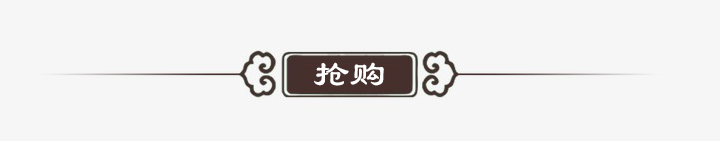
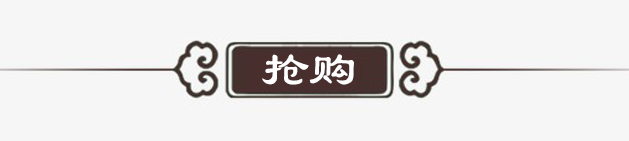
修改

Changed region(s): [[0.0, 0.2837, 1.0, 0.7092]]

diff --git a/www/css/style.css b/www/css/style.css
@@ -140,19 +140,19 @@ ion-tabs.tabs-color-active-positive .tab-item.tab-item-active, ion-tabs.tabs-col
    margin-top:0;
   padding-top: 0;}
 .home .search_input{width: 95%;position: absolute;top:23px;left:10px;border-radius: 3px;padding: 5px;}
-.trade-name,.trade-price{text-align:center;font-size:12px;display: block;line-height:24px}
+.trade-name,.trade-price{text-align:left;font-size:12px;display: block;line-height:24px}
 .trade-name{font-weight: bold;color:#000;}
 .trade-price{color:#64b204}
-.trade-price strong{font-weight: bold;font-size:14px}
+.trade-price strong{font-weight: bold;font-size:14px;float:left}
 .trade-vip{color:#000;border-radius:7px;background:#eb9316;text-align:center;font-size:12px;margin: 0 auto;display: table;padding:3px 7px}
 .trade-vip strong{font-size:14px}
 .box_border-5{border-bottom:5px solid #e7e7e7}
 .banner-publicity{background:#fff;padding:10px;height: auto;}
 .banner-publicity-row{margin-top:5px;}
-.banner-publicity .img{width:100%}
-.shopping-button{background:0;border:0;margin-top: -35px}
-.shopping-cart{font-size:20px;color:#64b204;margin-top:5px;display: block}
-.shopping-list li{width:33.333%;display: block;background:#fff}
+.banner-publicity .img{width:100%;height:105px}
+.shopping-button{background:0;border:0;margin-top: -8px}
+.shopping-cart{font-size:20px;color:#64b204;display: block}
+.shopping-list li{width:33.333%;display: block;background:#fff;margin-top:10px}
 
 .product-list li{width: 49.999999%;display: block;border:5px solid #f8f8f8}
 .product-list .banner-publicity{padding:0}
@@ -168,7 +168,7 @@ ion-tabs.tabs-color-active-positive .tab-item.tab-item-active, ion-tabs.tabs-col
 .cart .shopping-img{width:60px;height:60px}
 .cart .title{font-size:14px}
 .cart .info{margin-top: 20px}
-.info-price{font-weight:300;color:#64b204;line-height:24px}
+.info-price{font-weight:300;color:#64b204;line-height:24px;float:left;text-align:left}
 .info-kg{font-weight:300;color:#ccc;}
 .info-num{width:24px;border:1px solid #ccc !important;height:24px!important;text-align: center}
 .btn-num{height:24px;border:1px solid #ccc;background:#fff}
@@ -179,12 +179,13 @@ ion-tabs.tabs-color-active-positive .tab-item.tab-item-active, ion-tabs.tabs-col
 .ion-trash-a{margin-top:-5px}
 
 /*下单支付*/
-.payment{position: fixed;bottom:48px;border-top:1px solid #ccc;}
-.payment .money{padding:14px 5px}
+.payment{position: fixed;bottom:48px;border-top:1px solid #ccc;background:#fff;overflow:hidden}
+.payment .money{}
+.payment .money div{line-height:50px}
 .pay{
-  background: #64b204;color:#fff;padding:8px 0;width:100%;text-align: center;
+  background: #64b204;color:#fff;width:100%;text-align: center;
   border:1px solid #64b204;
-  font-size: large;
+  font-size: large;height:52px;line-height:48px;
 }
 .pay-disabled {
   background-color: #f8f8f8;
@@ -212,8 +213,7 @@ ion-tabs.tabs-color-active-positive .tab-item.tab-item-active, ion-tabs.tabs-col
   repeating-linear-gradient(-45deg, red 0, red 12.5%, transparent 0, transparent 25%,
     #58a 0, #58a 37.5%, transparent 0, transparent 50%) 0 / 6em 6em;font: 100%/1.6 Baskerville, Palatino, serif;}
 /*.item-divider{padding:0;height:10px;min-height:10px}*/
-/**我的账户**/
-.about-meq{background: url("../img/account.jpg") center top;background-size: 100%;height:120px;padding:10px 0 0  0;color:#fff}
+.product_info.about-meq{background: url("../img/account.jpg") center top;background-size: 100%;height:127px;padding:10px 0 0  0;color:#fff}
 .about-meq.item-avatar > img:first-child{max-width:50px;max-height:50px;border-radius:6px;}
 .register{line-height:24px;border:1px solid #fff;border-radius:20px;min-height:24px;background:none;margin:5px auto;display:block;color:#fff;font-size:12px}
 .about-column{padding:12px}
@@ -240,7 +240,7 @@ ion-tabs.tabs-color-active-positive .tab-item.tab-item-active, ion-tabs.tabs-col
 .icon_img-browse:hover{width:35px;height:35px;display:block;margin:0 auto;background:url("../img/browse-hover.png") left top no-repeat;background-size:100%}
 
 /*商品详情*/
-.product_info{padding-top:40px;background: #fff}
+.product_info{padding:20px 0;background: #fff}
 .product_about{padding: 0 20px}
 .product_about h2{font-size:20px}
 .product_norms{border-top:1px solid #eee;border-bottom:1px solid #eee;text-align: center;line-height:45px}
@@ -566,7 +566,7 @@ ion-tabs.tabs-color-active-positive .tab-item.tab-item-active, ion-tabs.tabs-col
   background-position: 0 -58px;
 }
 @media only screen and (max-width: 320px){
-  .shopping-list li{width:50%;display: block;background:#fff}
+  .shopping-list li{width:49.999999%;display: block;background:#fff}
 
   .form_lid{height:50px;padding:0 10px;overflow: hidden}
   .form_lid .triangle1{height: 0;
@@ -612,3 +612,6 @@ ion-tabs.tabs-color-active-positive .tab-item.tab-item-active, ion-tabs.tabs-col
   background-color: #64b204;
   box-shadow: none;
   color: #fff; }
+/*销量 库存*/
+.stock{padding:5px 0}
+.stock li{text-align:center;line-height:50px;color:#aaa;margin-right:-1px}

diff --git a/www/modules/home.html b/www/modules/home.html
@@ -97,14 +97,18 @@
   </div>
   <!--  抢购  -->
   <div class="wl">
-    <div class="form_lid red wl">
-      <img src="../img/buying.png" />
+    <div class="red wl">
+      <img src="../img/buying.png" width="100%" />
     </div>
     <ul class="shopping-list">
       <li class="pd5-10 fl" ng-repeat="item in qiangGouProducts">
         <a>
           <img ng-src="{{item.picUrl}}" style="width:100%" ui-sref="product_detail({id:item.id})"/>
           <span class="trade-name" ng-bind="item.itemName"></span>
+          <ul class="row stock">
+            <li class="col-lg-6">销量 200 <em class="fr">|</em></li>
+            <li class="col-lg-6">库存 1200</li>
+          </ul>
           <span class="trade-price"><strong ng-bind="item.sellPrice | currency:'￥'"></strong></span>
           <span class="trade-vip" ng-if="item.memberPrice">VIP <p ng-bind="item.memberPrice | currency:'￥'"></p></span>
           <button type="button" class="shopping-button fr" ng-click="pushCarts(item)"><span class="ion-ios-cart shopping-cart"></span></button>
@@ -114,14 +118,18 @@
   </div>
   <!--  新品  -->
   <div class="wl">
-    <div class="form_lid red wl">
-      <img src="../img/new.png" />
+    <div class="red wl">
+      <img src="../img/new.png" width="100%" />
     </div>
     <ul class="shopping-list">
       <li class="pd5-10 fl" ng-repeat="item in xinPinProducts">
         <a>
           <img ng-src="{{item.picUrl}}" style="width:100%" ui-sref="product_detail({id:item.id})"/>
           <span class="trade-name" ng-bind="item.itemName"></span>
+          <ul class="row stock">
+            <li class="col-lg-6">销量 200 <em class="fr">|</em></li>
+            <li class="col-lg-6">库存 1200</li>
+          </ul>
           <span class="trade-price"><strong ng-bind="item.sellPrice | currency:'￥'"></strong></span>
           <span class="trade-vip" ng-if="item.memberPrice">VIP <p ng-bind="item.memberPrice | currency:'￥'"></p></span>
           <button type="button" class="shopping-button fr" ng-click="pushCarts(item)"><span class="ion-ios-cart shopping-cart"></span></button>
@@ -131,14 +139,18 @@
   </div>
   <!--  推荐  -->
   <div class="wl">
-    <div class="form_lid red wl">
-      <img src="../img/rec.png" />
+    <div class="red wl">
+      <img src="../img/rec.png" width="100%" />
     </div>
     <ul class="shopping-list">
       <li class="pd5-10 fl" ng-repeat="item in tuiJianProducts">
         <a>
           <img ng-src="{{item.picUrl}}" ui-sref="product_detail({id:item.id})" style="width:100%"/>
           <span class="trade-name" ng-bind="item.itemName"></span>
+          <ul class="row stock">
+            <li class="col-lg-6">销量 200 <em class="fr">|</em></li>
+            <li class="col-lg-6">库存 1200</li>
+          </ul>
           <span class="trade-price"><strong ng-bind="item.sellPrice | currency:'￥'"></strong></span>
           <span class="trade-vip" ng-if="item.memberPrice">VIP <p ng-bind="item.memberPrice | currency:'￥'"></p></span>
           <button type="button" class="shopping-button fr" ng-click="pushCarts(item)"><span class="ion-ios-cart shopping-cart"></span></button>

diff --git a/www/modules/product/product.html b/www/modules/product/product.html
@@ -51,11 +51,15 @@
             <span class="col-33"><img ng-src="{{item.picUrl}}" class="img fl" /></span>
             <span class="col-67">
               <span class="product-name ft14" ng-bind="item.itemName"></span>
+              <ul class="row mt10">
+                  <li class="col-lg-6 ft12" style="border:0;">销量 200</li>
+                  <li class="col-lg-6 ft12" style="border:0;">库存 200件</li>
+              </ul>
               <span class="wl mt10" ng-bind="item.brandSlogan"></span>
-              <span class="wl mt10 color_red"><strong ng-bind="item.sellPrice | currency:'¥'"></strong><span ng-if="item.memberPrice"><div ng-bind="item.memberPrice | currency:'¥'"></div></span></span>
+              <span class="wl mt10 color_red"><strong class="ft18" ng-bind="item.sellPrice | currency:'¥'"></strong><span ng-if="item.memberPrice"><div ng-bind="item.memberPrice | currency:'¥'"></div></span></span>
             </span>
           </a>
-          <button type="button" class="shopping-button fr" ng-click="pushCarts(item)"><span class="ion-ios-cart shopping-cart"></span></button>
+          <button type="button" class="shopping-button fr" style="margin-top:-29px" ng-click="pushCarts(item)"><span class="ion-ios-cart shopping-cart" style="font-size:24px"></span></button>
         </li>
       </ul>
       <div class="wl" ng-if="queryParams.style=='col'">
@@ -65,11 +69,15 @@
               <img ng-src="{{item.picUrl}}" class="img fl" />
               <div class="pd10 wl">
                 <b class="one_omit wl" ng-bind="item.itemName"></b>
+                <ul class="row">
+                  <li class="col-lg-6 ft12" style="border:0;">销量 200</li>
+                  <li class="col-lg-6 ft12" style="border:0;">库存 200件</li>
+                </ul>
                 <span class="wl mt10 one_omit" ng-bind="item.brandSlogan"></span>
-                <span class="wl mt10 color_red"><strong ng-bind="item.sellPrice | currency:'¥'"></strong><span ng-if="item.memberPrice"><div ng-bind="item.memberPrice | currency:'¥'"></div></span></span>
+                <span class="wl mt10 color_red"><strong class="ft18" ng-bind="item.sellPrice | currency:'¥'"></strong><span ng-if="item.memberPrice"><div ng-bind="item.memberPrice | currency:'¥'"></div></span></span>
               </div>
             </a>
-            <button type="button" class="shopping-button fr" ng-click="pushCarts(item)"><span class="ion-ios-cart shopping-cart"></span></button>
+            <button type="button" class="shopping-button fr" style="margin-top:-35px" ng-click="pushCarts(item)"><span class="ion-ios-cart shopping-cart"></span></button>
           </li>
         </ul>
       </div>

diff --git a/www/modules/cart.html b/www/modules/cart.html
@@ -15,6 +15,10 @@
         </li>
         <li class="pr12">
           <b class="title" ng-bind="product.itemName"></b>
+          <ul class="row">
+            <li class="col-lg-6 ft12 text-center">销量：200</li>
+            <li class="col-lg-6 ft12 text-center">库存：200件</li>
+          </ul>
           <ul class="info">
             <li class="fl">
               <span class="info-price"><b ng-bind="product.sellPrice | currency:'¥'" class="ft18"></b></span><br>
@@ -42,10 +46,10 @@
 <div class="payment wl">
   <ul class="row wl bg-ff">
     <li class="col-33">
-      <div class="mt10 fl"><ion-checkbox ng-model="checkAll" style="border:0;background:none">全选</ion-checkbox></div>
+      <div class="fl"><ion-checkbox ng-model="checkAll" style="border:0;background:none">全选</ion-checkbox></div>
     </li>
     <li class="col-33 money">
-      <div class=" fl">共:<b class="ft16 color_red" ng-bind="totalAmount() | currency:'￥'"></b></div>
+      <div class="fl">共:<b class="ft16 color_red" ng-bind="totalAmount() | currency:'￥'"></b></div>
     </li>
     <li class="col-33">
       <button type="button" class="pay"

diff --git a/www/modules/product/product.detail.html b/www/modules/product/product.detail.html
@@ -20,8 +20,13 @@
   <!--商品图------>
   <div class="product_info wl">
     <div class="product_about wl">
-      <h2 ng-bind="product.itemName"></h2>
-      <div class="color_red mt10 fr"><span class="ft24" ng-bind="product.sellPrice | currency:'¥'"></span></div>
+      <h2 ng-bind="product.itemName" class="fl"></h2>
+      <ul class="row mt10 fr">
+        <li class="col-lg-6 ft12" style="border:0;">销量 200</li>
+        <li class="col-lg-6 ft12" style="border:0;">库存 200件</li>
+      </ul>
+      <br>
+      <div class="color_red fr" style="margin-top:-45px"><span class="ft24" ng-bind="product.sellPrice | currency:'¥'"></span></div>
     </div>
     <!--<ul class="row product_norms wl mt10">-->
       <!--<li class="col-33">产地：上海</li>-->
@@ -61,7 +66,7 @@
       <!--<div class="mt10 ft12">2017-03-21</div>-->
     <!--</a>-->
 
-    <a class="item mt10" ng-if="product.detailContent">
+    <a class="item mt10 wl" ng-if="product.detailContent">
       图文详情
     </a>
     <div ng-if="product.detailContent" class="goods-info" ng-bind-html="product.detailContent"></div>
